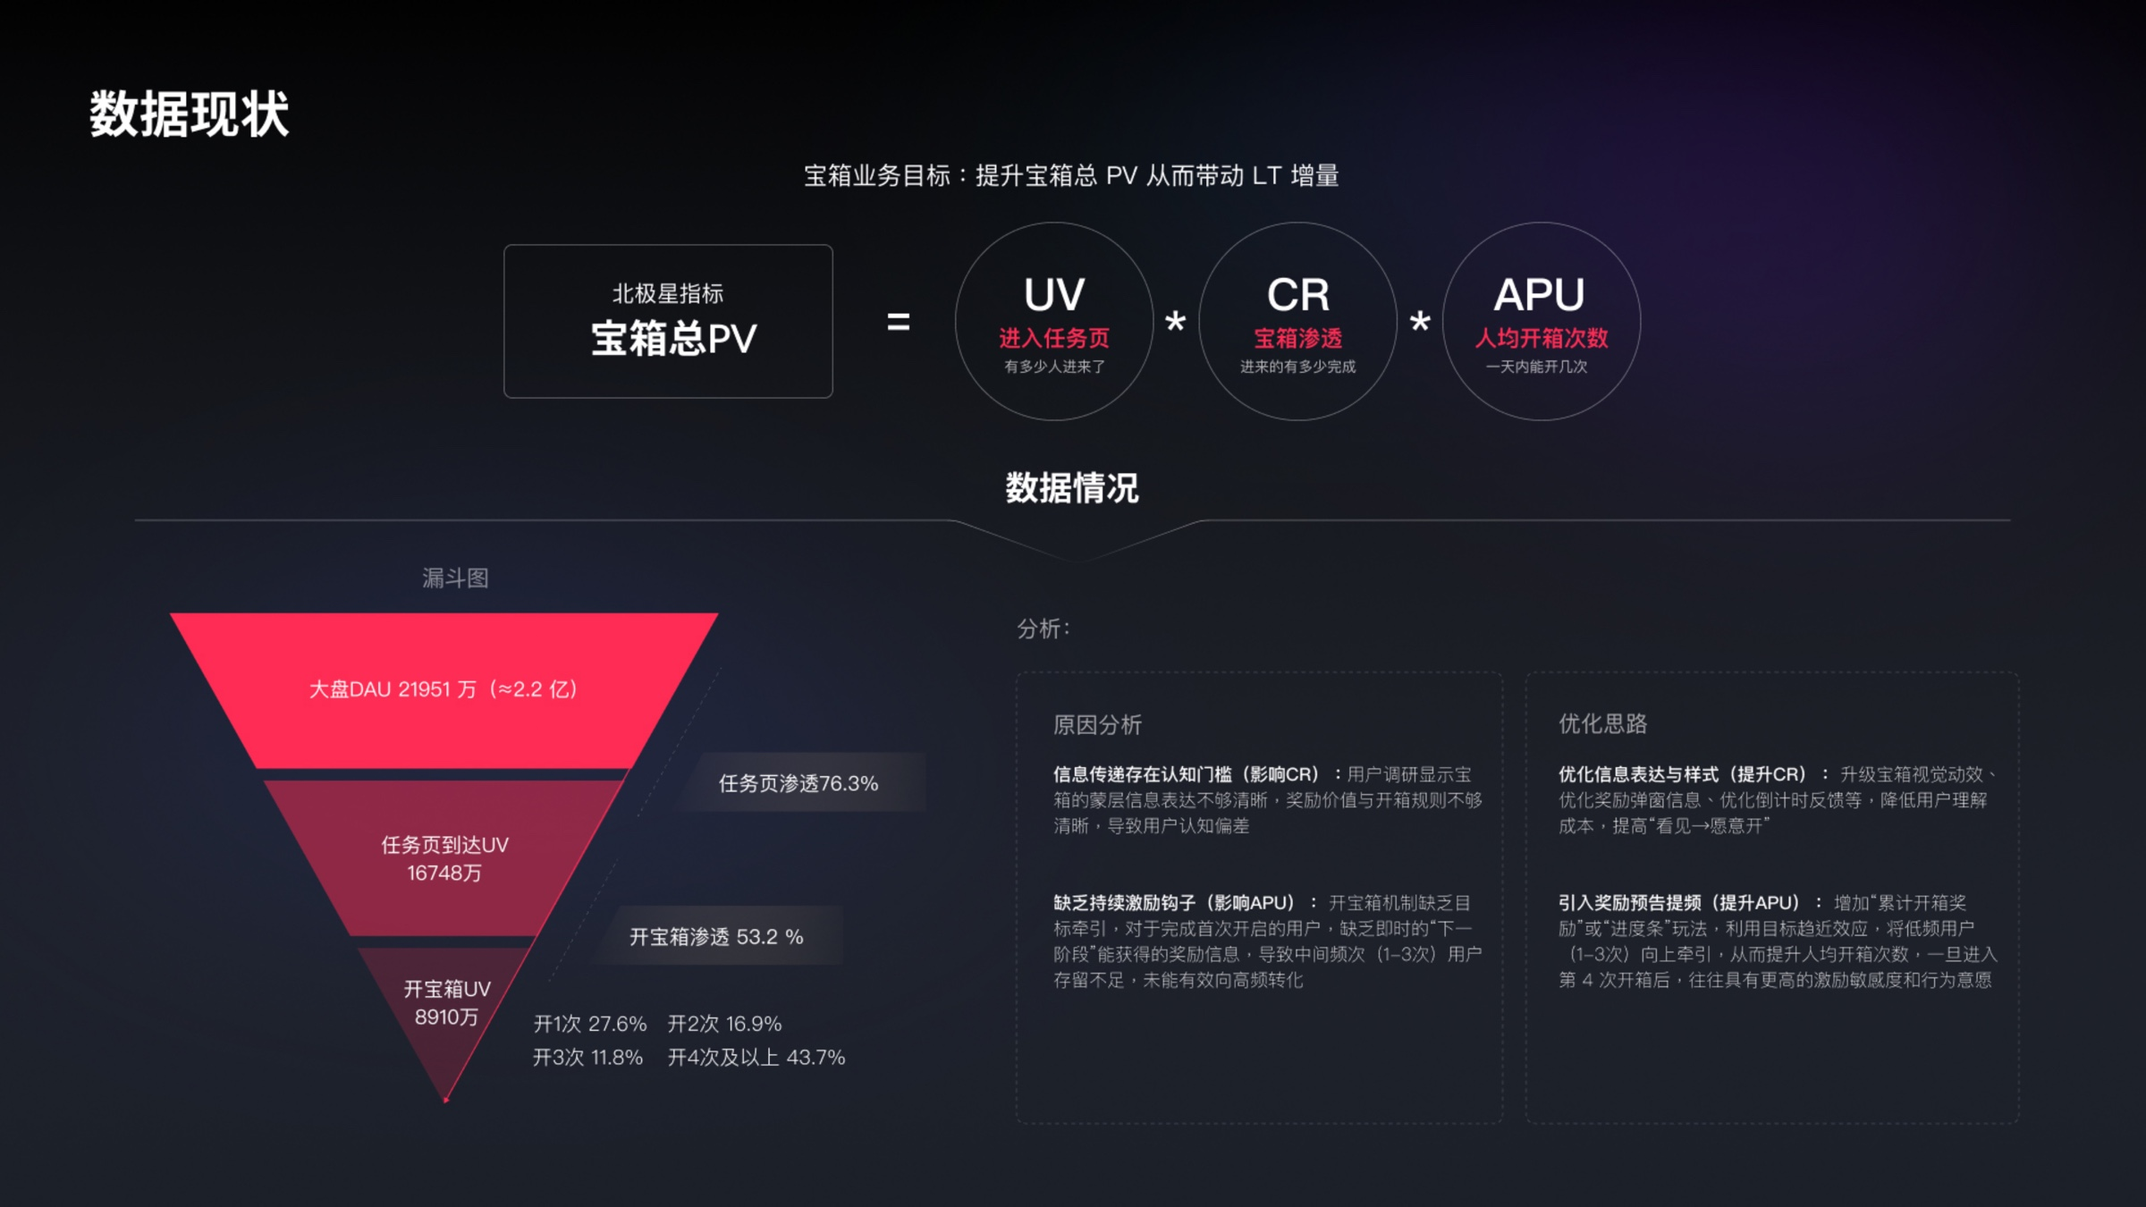
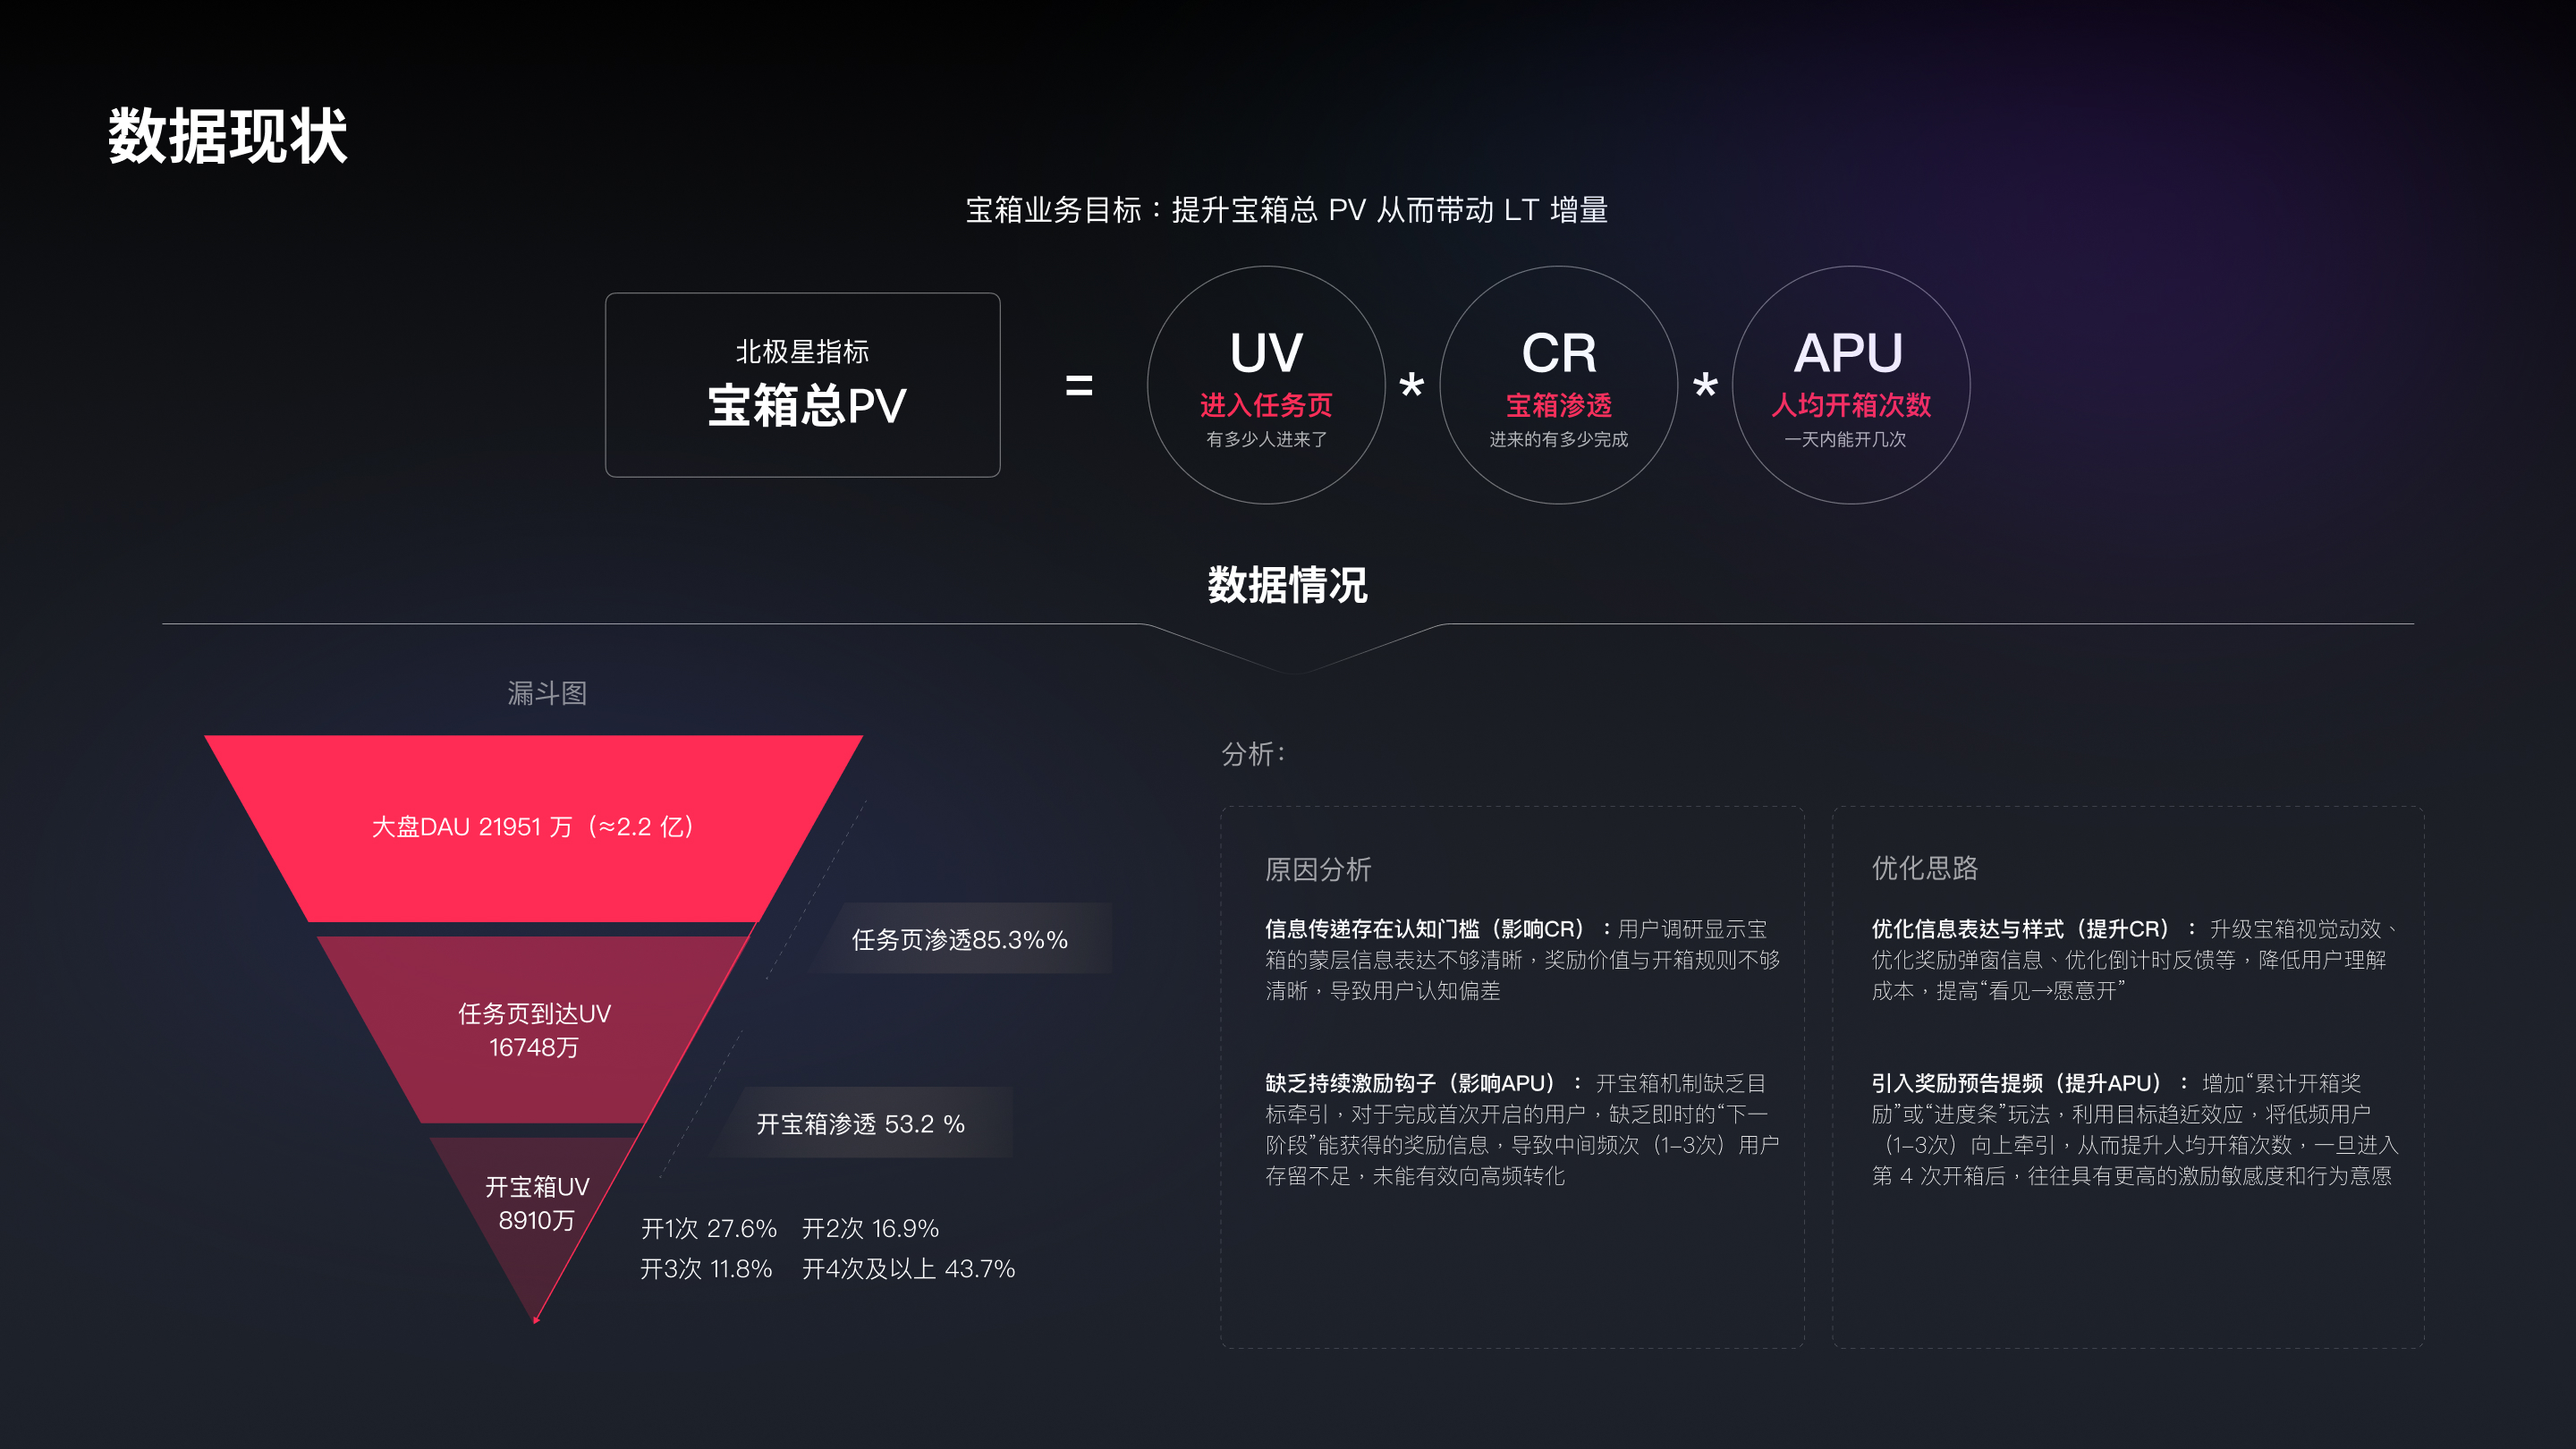
Update incentive and treasure project pages

diff --git a/src/App.jsx b/src/App.jsx
@@ -147,7 +147,7 @@ const treasureDetailImageModules = import.meta.glob("./treasure-detail/*.jpg", {
 });
 
 const treasureDetailImages = Array.from(
-  { length: 15 },
+  { length: 14 },
   (_, index) => treasureDetailImageModules[`./treasure-detail/treasure-detail-${String(index + 1).padStart(2, "0")}.jpg`],
 );
 
@@ -178,22 +178,14 @@ const incentiveDetailImageModules = import.meta.glob("./incentive-detail/*.jpg",
   query: "?url",
 });
 
-const incentiveDetailImage = (name, height = 2048) => ({
+const incentiveDetailImage = (name) => ({
   src: incentiveDetailImageModules[`./incentive-detail/incentive-detail-${name}.jpg`],
   width: 2339,
-  height,
+  height: 2048,
 });
 
 const incentiveDetailImages = [
-  ...Array.from({ length: 10 }, (_, index) => incentiveDetailImage(String(index + 1).padStart(2, "0"))),
-  incentiveDetailImage("11-before", 1750),
-  incentiveDetailImage("13-after", 448),
-  incentiveDetailImage("14"),
-  incentiveDetailImage("15"),
-  incentiveDetailImage("16"),
-  incentiveDetailImage("11-fusion", 298),
-  incentiveDetailImage("12"),
-  incentiveDetailImage("13-fusion", 1600),
+  ...Array.from({ length: 16 }, (_, index) => incentiveDetailImage(`refresh-${String(index + 1).padStart(2, "0")}`)),
 ];
 
 const aiInterfaceDetailImageModules = import.meta.glob("./ai-interface-detail/*.jpg", {
